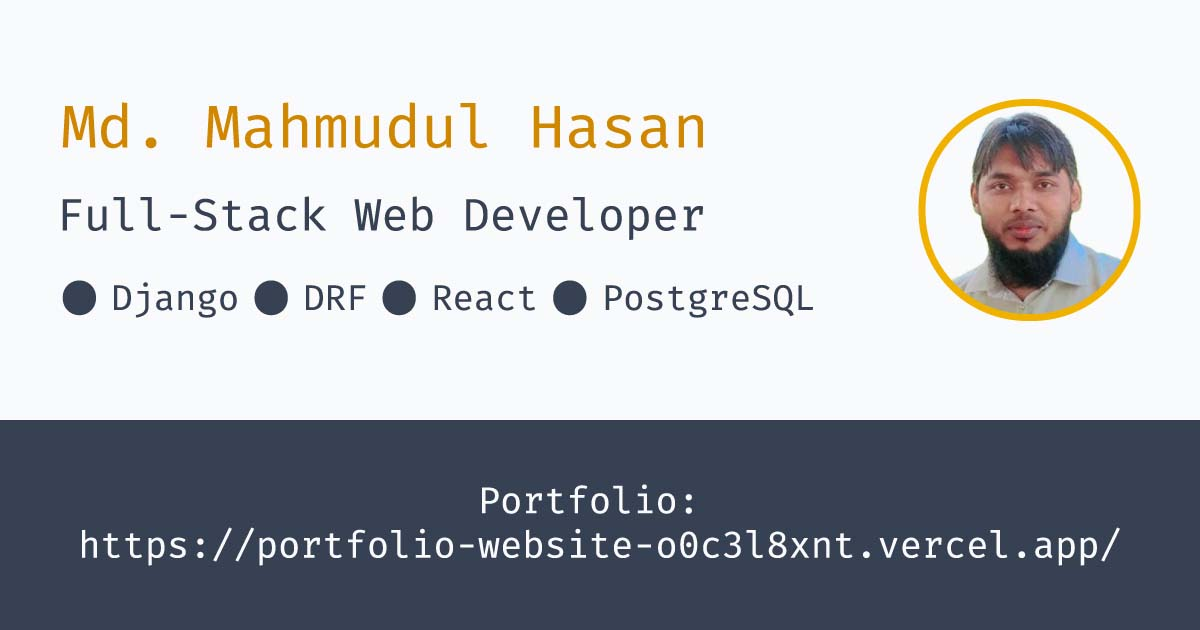
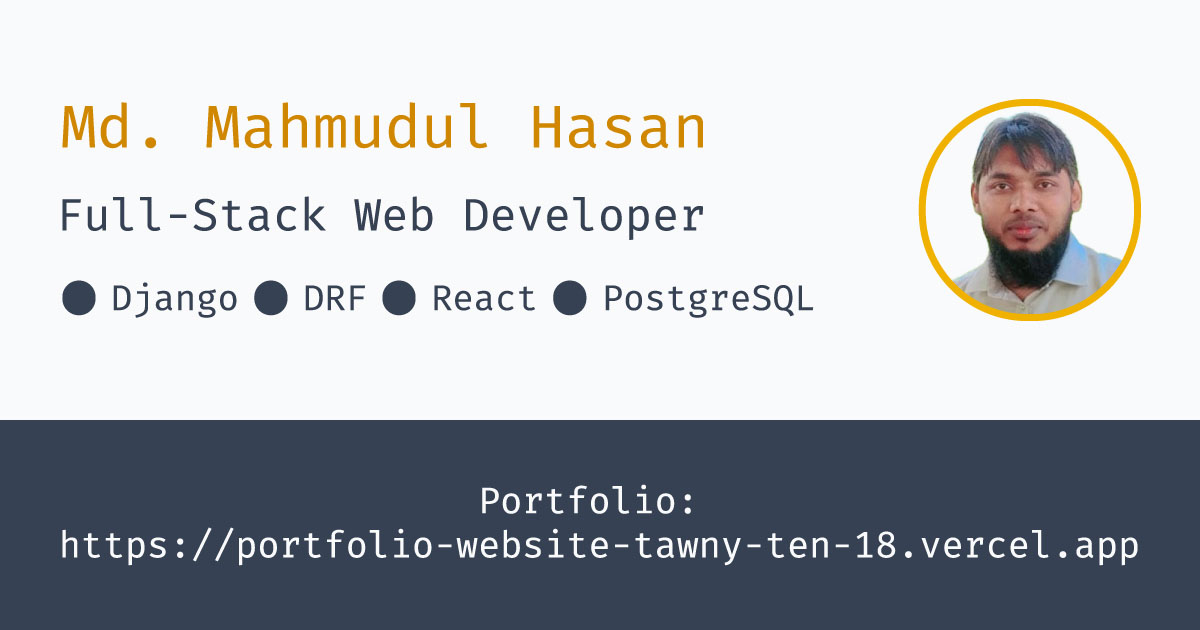
Image Correction

diff --git a/index.html b/index.html
@@ -29,11 +29,11 @@
     <meta property="og:type" content="website" />
     <meta
       property="og:url"
-      content="https://portfolio-website-o0c3l8xnt.vercel.app/"
+      content="https://portfolio-website-tawny-ten-18.vercel.app/"
     />
     <meta
       property="og:image"
-      content="https://portfolio-website-o0c3l8xnt.vercel.app/og-image.jpg"
+      content="https://portfolio-website-tawny-ten-18.vercel.app/og-image.jpg"
     />
     <title>Md. Mahmudul Hasan — Django & React Developer</title>
     <!--app-head-->

diff --git a/README.md b/README.md
@@ -3,7 +3,7 @@
 A modern, fast and fully responsive **Portfolio Website** built using **React, Vite, and TailwindCSS**.  
 It showcases my skills, projects, experience, and includes a functional contact form powered by **EmailJS**.
 
-Live Demo: **https://portfolio-website-o0c3l8xnt.vercel.app**
+Live Demo: **https://portfolio-website-tawny-ten-18.vercel.app/**
 
 ---
 
